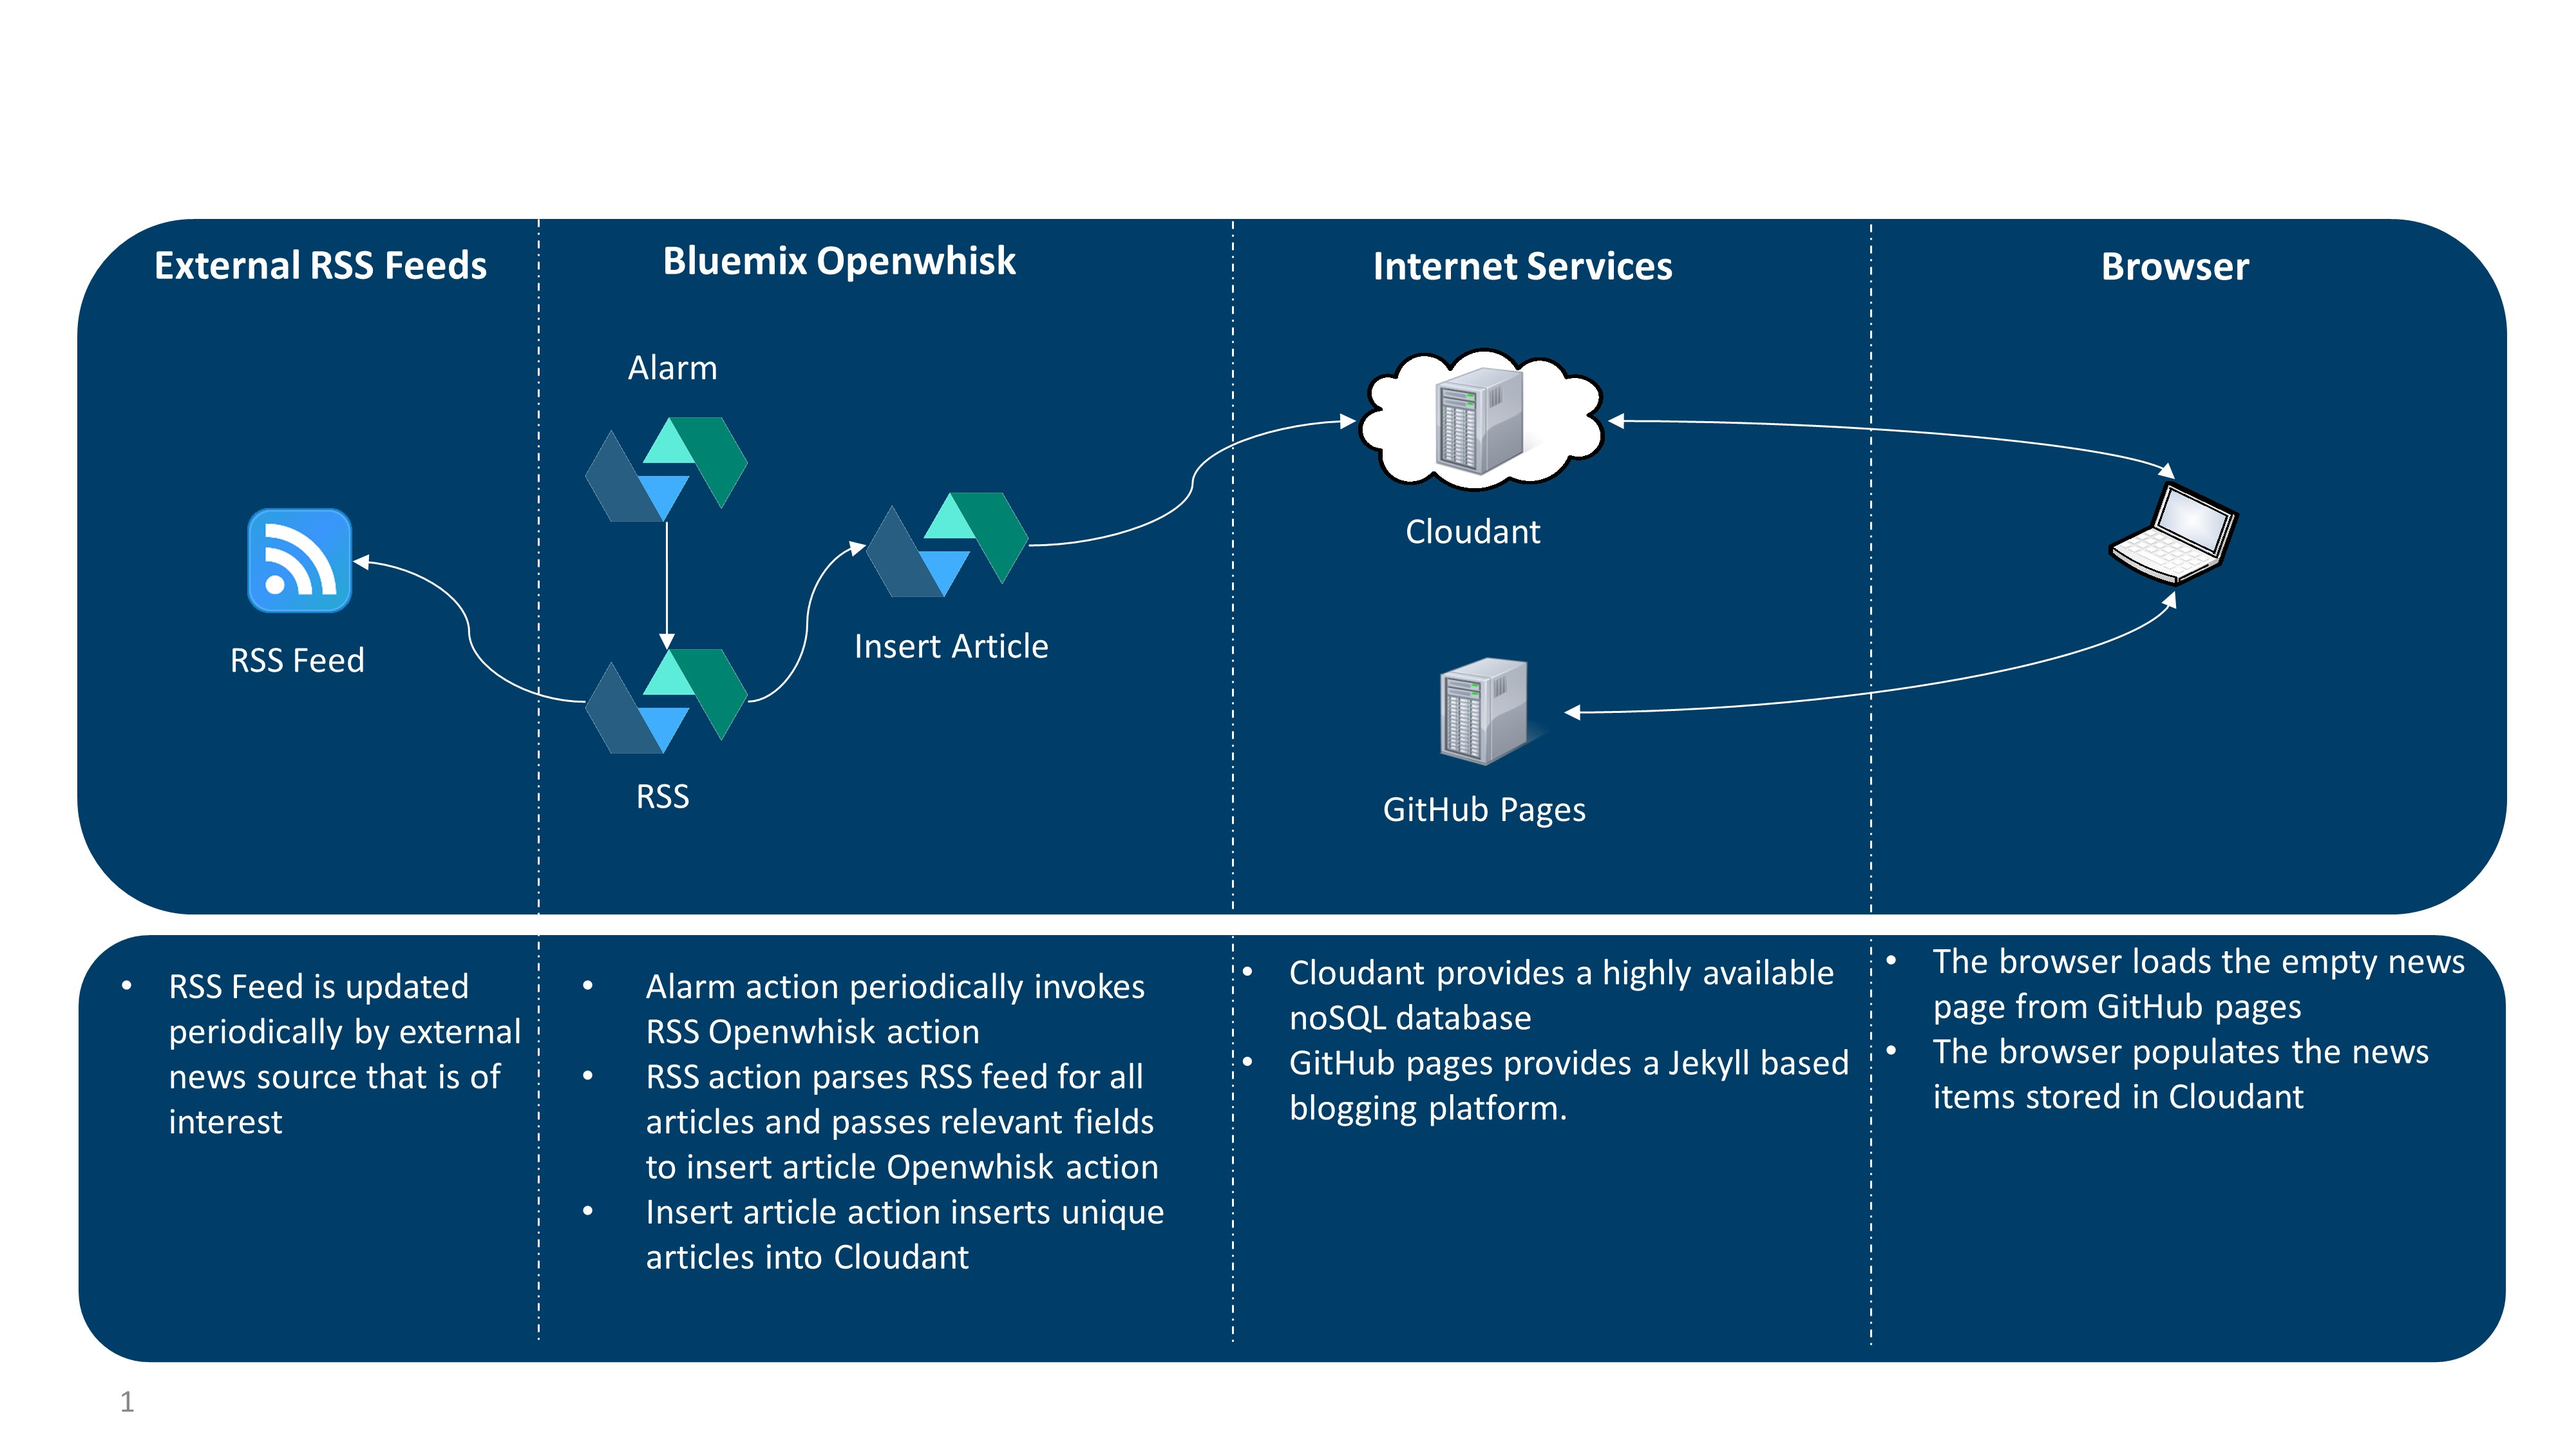
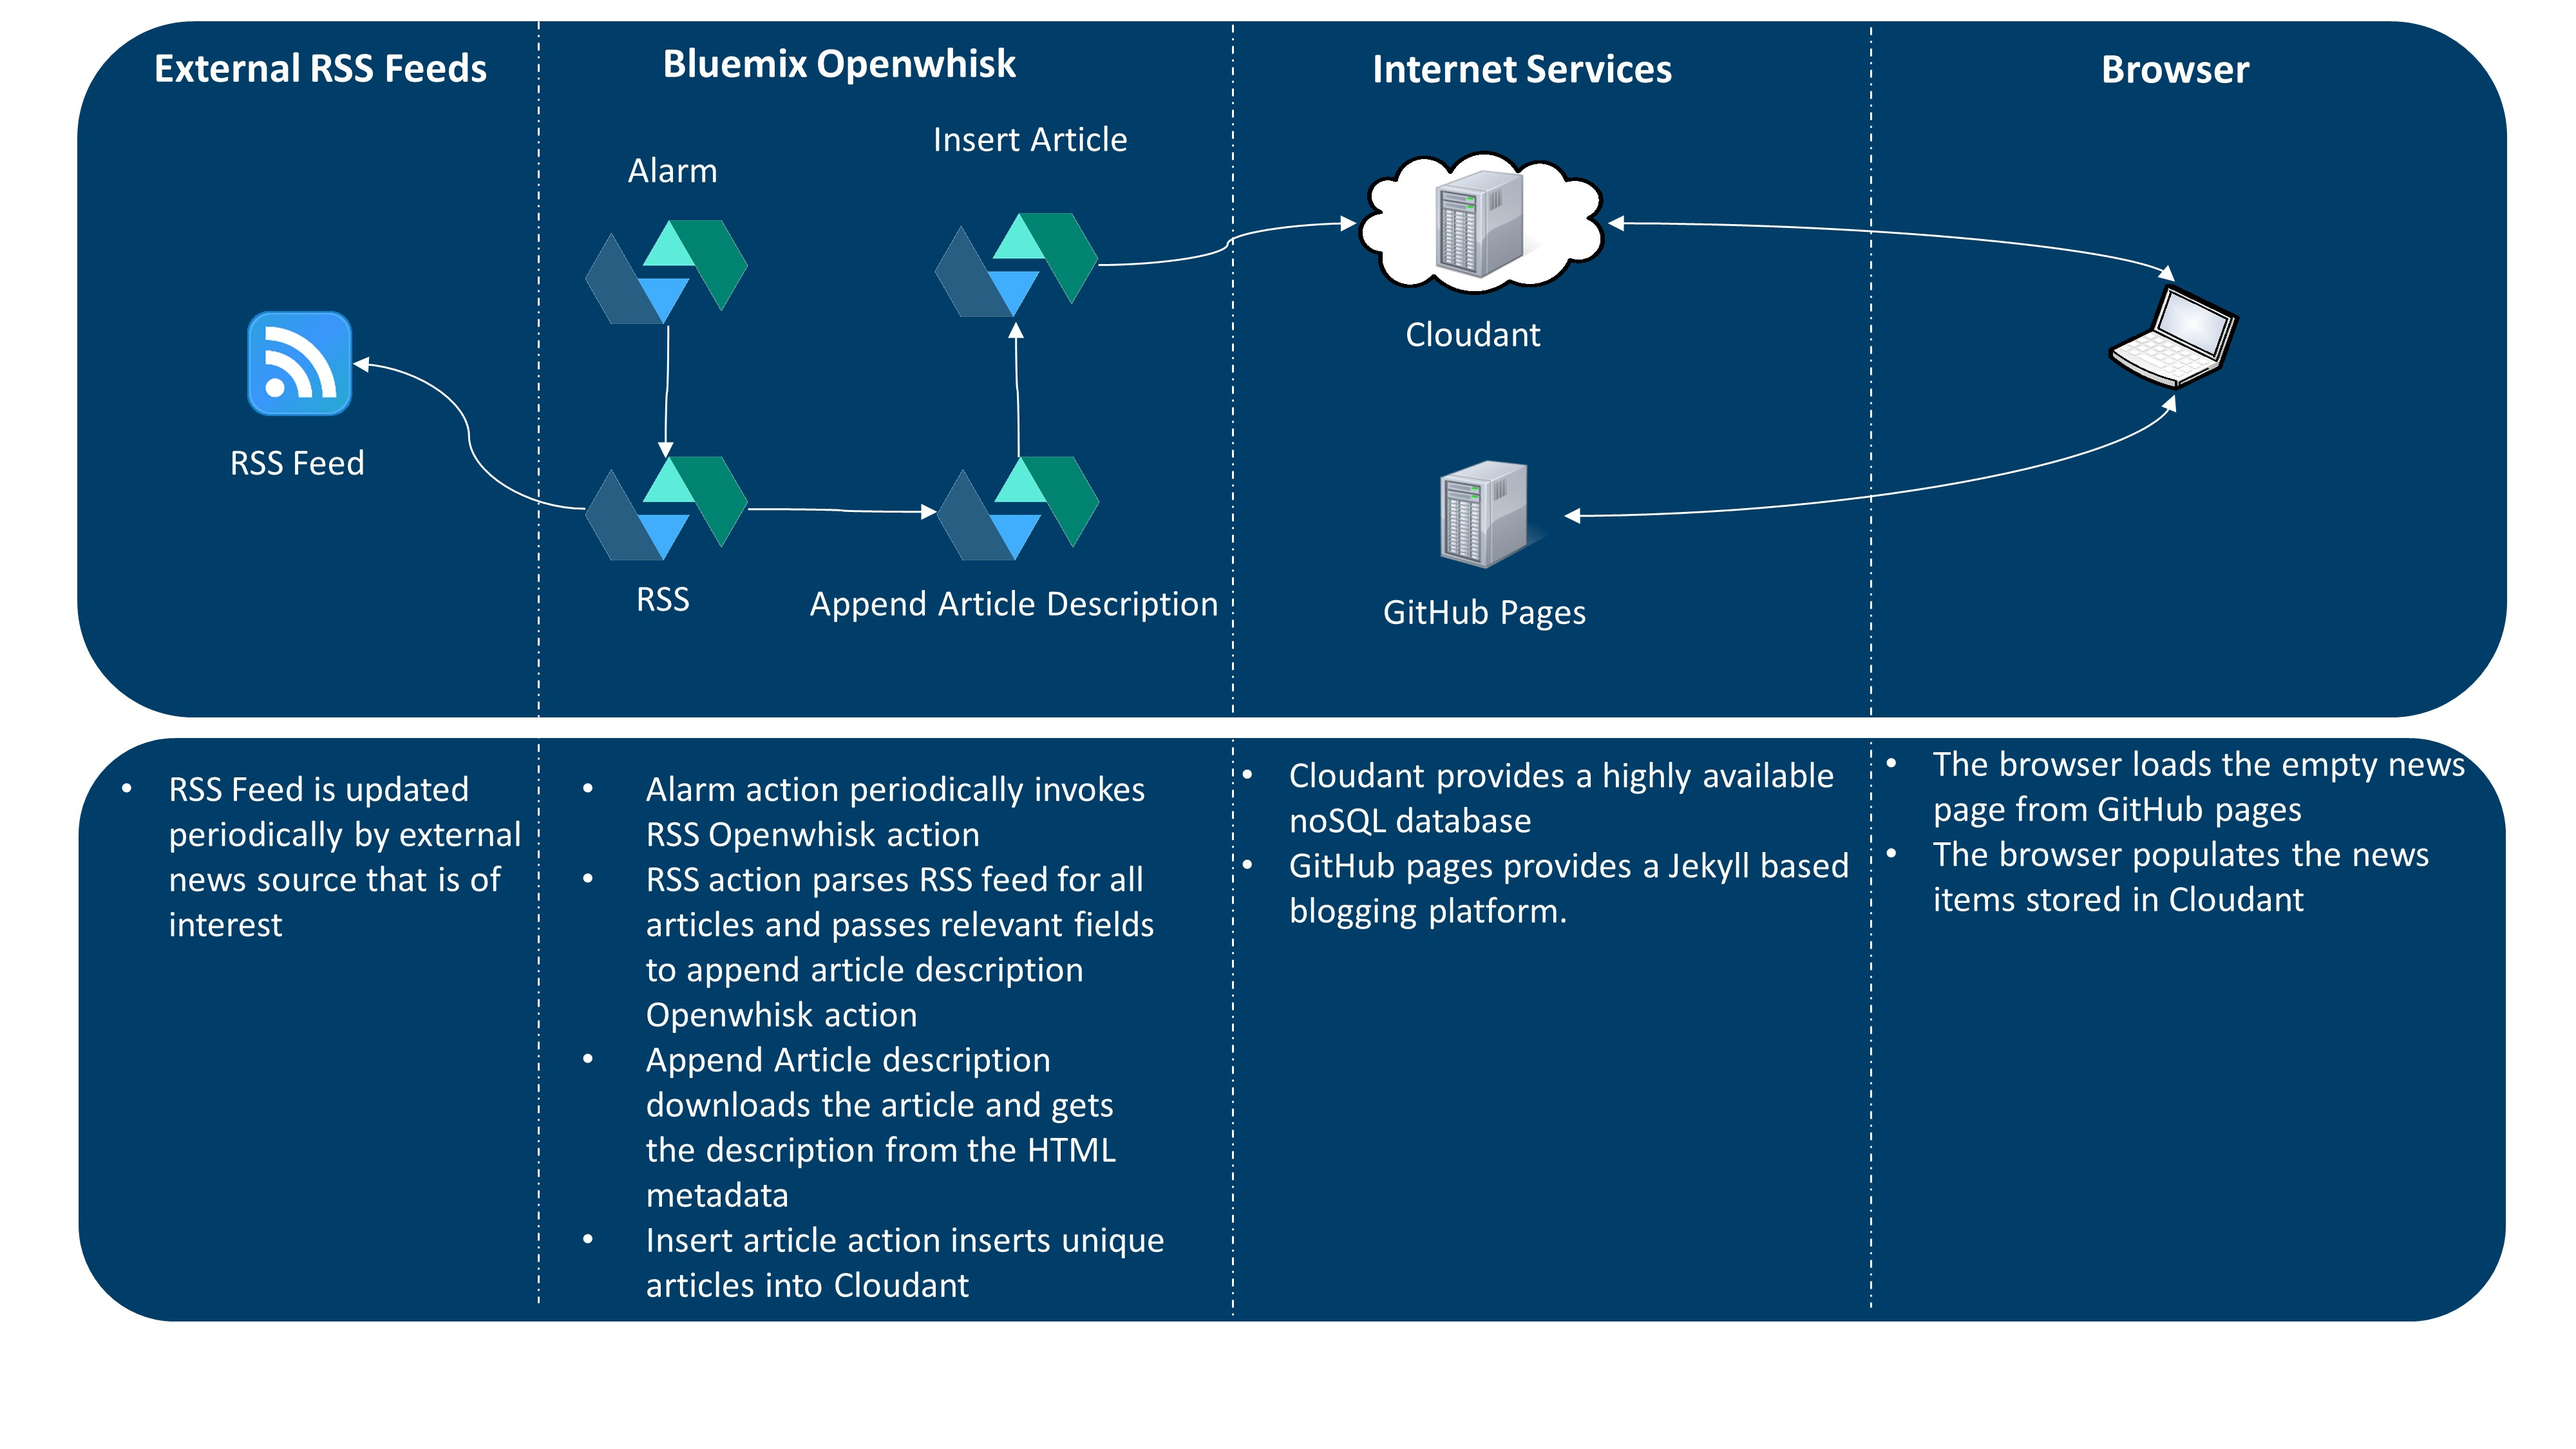
Continue work on auto news rss.

Changed region(s): [[0.0312, 0.0, 1.0, 0.9644], [0.8125, 0.3111, 0.875, 0.4044]]

diff --git a/_drafts/news-auto-rss.md b/_drafts/news-auto-rss.md
@@ -37,108 +37,147 @@ This post will tie all the work of the previous posts together resulting in a ne
 
 ## Remaining Steps
 
-1. Create Openwhisk action to parse RSS feeds and invoked insert article action
-2. Configure timer to periodically invoke RSS feed action
+1. Create Openwhisk action to parse RSS feeds
+2. Create Openwhisk action to parse article description from meta tags and invoke insert article whisk action
+3. Configure a timer to periodically invoke RSS feed action
 
 <br>
 
 # Parsing RSS Feeds
 
-Creating the initial Cloudant index was described in detail in [this post]({% post_url 2016-08-10-news-setting-up-cloudant %}).  To create another index open up the Cloudant portal, select Databases from the left navigation section and then select your blog news database. Select the plus sign next to Design Documents then select query indexes.
-{% include gallery id="cloudant_index" caption="Create a new query index" %}
+Creating the first Openwhisk action was described in detail in [this post]({% post_url 2016-08-17-news-openwhisk-uniq %}).  In this post we will create another Openwhisk action that will trigger the insert_article action once for every article in the RSS feed.
 
-In the next screen you can create your index.  Unlike the previous index, this time we want to index the link of the news articles so we can make sure all news artciles are unique. From the supplied default index example in cloudant replace 'foo' with 'link' and click create index.
-{% include gallery id="cloudant_create_index" caption="Link index creation" %}
+## RSS Action
 
-With the index created, Cloudant can now be quickly queried to see if a link already exists.
+The RSS action does the following
 
-# Filter news articles
-A custom Openwhisk action will be used to filter news articles to ensure uniqueness.  This filter will be written in Javascript.
+1. Downloads and parses the RSS feed from the supplied URL.
+2. Extracts the title, link and calculates a timestamp
+3. Invokes the append_article_description action to create an article extract
 
-## Create a file called insert_article.js
-{% highlight shell %}
-vi insert_article.js
-{% endhighlight %}
+The contents of the rss action in its entirety:
 
-The content of the insert_article action in its entirety
 {% highlight javascript %}
-function main(params) {
+// Request module is used to download RSS feed
+var request = require('request');
 
-  whisk.invoke({
-    name: '/user@us.ibm.com_blog/blog_news/exec-query-find',
-    parameters:{
-      dbname: 'blog_news',
-      query:  {
-        "selector": {
-          "link": {
-            "$eq": params.link
-          }
-        },
-        "fields": [
-          "_id"
-        ],
-        "sort": [
-          {
-            "link": "desc"
-          }
-        ]
+// Cheerio module is used to parse the XML in the RSS feed.
+var cheerio = require("cheerio");
+
+function main(params) {
+  var url = params.url;
+
+  return new Promise(function(resolve, reject) {
+    request.get(url, function(error, response, body) {
+      if (error) {
+        reject(error);
       }
-    },
-    blocking: true,
-    next:  function(error, activation) {
-      console.log('error:', error, 'activation:', activation);
-      if(error){
-        whisk.error(error);
-      }
-      else{
-        if( activation.result.docs.length > 0 ) {
-          whisk.done({msg:'Link already present. Ignoring article.'});
-        }
-        else{
+      else {
+        // Parse the RSS Feed XML provided as a response body
+        $ = cheerio.load(body, {
+          normalizeWhitespace: true,
+          xmlMode: true
+        });
+
+        // Iterate over all RSS items in the feed.
+        $( "item" ).each(function(){
+          // Extract the title and link from the item in the RSS feed.
+          var title = $(this).find('title').text();
+          var link = $(this).find('link').text();
+          // Convert the item pubDate then calculate the timestamp in seconds since epoch.
+          var timestamp = Date.parse($(this).find('pubDate').text())/1000;
+
+          // Pass the parsed data onto append_article_description action
           whisk.invoke({
-            name: '/user@us.ibm.com_blog/blog_news/write',
+            name: '/boc@us.ibm.com_blog/append_article_description',
             parameters:{
-              dbname: 'blog_news',
-              doc: {
-                "title": params.title,
-                "link": params.link,
-                "excerpt": params.excerpt,
-                "timestamp": String(params.timestamp)
-              }
-            },
-            blocking: true,
-            next:  function(error, activation) {
-              console.log('error:', error, 'activation:', activation);
-              if(error){
-                whisk.error(error);
-              }
-              else{
-                whisk.done({msg:'Article added to Cloudant'});
-              }
+              "title": title,
+              "link": link,
+              "timestamp": timestamp
             }
           });
-          return whisk.async();
-        }
+
+        });
+        resolve({msg: 'done'});
       }
-    }
+    });
   });
-  return whisk.async();
+
 }
 {% endhighlight %}
 
-The nesting of the javascript makes this action look complicated, but the logic is fairly simple.
+# Append article description
 
-1. Action parameters are passed in with the params object.  This action uses title, link, excerpt and timestamp.
-2. Use an asynchronous whisk action to query Cloudant for any documents containing the link passed in as a parameter.
-3. If the results set contains 1 or more documents, end the Openwhisk chain with a call to whisk.done.  Otherwise invoke another asynchronous Cloudant whisk action to insert the article.
-4. Execute a whisk.done call after adding the article to Cloudant.
+A second action is used to download the article and inspect the metadata to extract the excerpt from the article.  The description supplied in the RSS item can have CDATA tags, linked to images, and other elements that are hard to parse and strip out from the text of the description.  The metadata for the article can be a more reliable, simpler source for the excerpt.
 
 
-## Create and upload the action to Openwhisk
-{% highlight shell %}
-./wsk action create insert_article insert_article.js
-ok: created action insert_article
+## Append Article Action Action
+
+The append article description action does the following
+
+1. Downloads and parses the RSS feed from the supplied URL.
+2. Extracts the title, link and calculates a timestamp
+3. Invokes the append_article_description action to create an article extract
+
+The contents of the rss action in its entirety:
+
+{% highlight javascript %}
+// Request module is used to download RSS feed
+var request = require('request');
+
+// Cheerio module is used to parse the XML in the RSS feed.
+var cheerio = require("cheerio");
+
+function main(params) {
+  var url = params.url;
+
+  return new Promise(function(resolve, reject) {
+    request.get(url, function(error, response, body) {
+      if (error) {
+        reject(error);
+      }
+      else {
+        // Parse the RSS Feed XML provided as a response body
+        $ = cheerio.load(body, {
+          normalizeWhitespace: true,
+          xmlMode: true
+        });
+
+        // Iterate over all RSS items in the feed.
+        $( "item" ).each(function(){
+          // Extract the title and link from the item in the RSS feed.
+          var title = $(this).find('title').text();
+          var link = $(this).find('link').text();
+          // Convert the item pubDate then calculate the timestamp in seconds since epoch.
+          var timestamp = Date.parse($(this).find('pubDate').text())/1000;
+
+          // Pass the parsed data onto append_article_description action
+          whisk.invoke({
+            name: '/boc@us.ibm.com_blog/append_article_description',
+            parameters:{
+              "title": title,
+              "link": link,
+              "timestamp": timestamp
+            }
+          });
+
+        });
+        resolve({msg: 'done'});
+      }
+    });
+  });
+
+}
 {% endhighlight %}
+
+
+## Create a file called append_article_description.js
+{% highlight shell %}
+vi append_article_description.js
+{% endhighlight %}
+
+
+
 
 <br>
 
